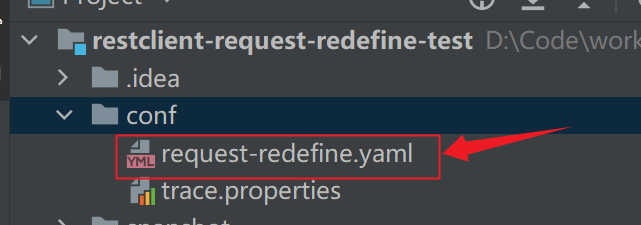
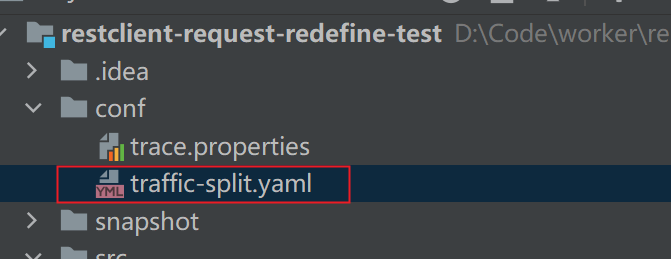
rename configFile from request-redefine.yaml to traffic-split.yaml

diff --git a/restclient-ext/traffic-split-file-config/src/main/java/io/esastack/restclient/ext/rule/FileRuleSourceFactory.java b/restclient-ext/traffic-split-file-config/src/main/java/io/esastack/restclient/ext/rule/FileRuleSourceFactory.java
@@ -44,7 +44,7 @@ public class FileRuleSourceFactory implements RuleSourceFactory {
         private static final String DEFAULT_CONFIG_DIR = "./conf";
         public static final String REQUEST_REDEFINE_CONFIG_DIR = "traffic.split.config.dir";
         private static final String ABSOLUTE_PATH_PREFIX = "/";
-        private static final String DEFAULT_CONFIG_NAME = "request-redefine.yaml";
+        private static final String DEFAULT_CONFIG_NAME = "traffic-split.yaml";
         public static final String REQUEST_REDEFINE_CONFIG_NAME = "traffic.split.config.name";
 
         private volatile long lastModified = 0L;

diff --git a/site/content/en/docs/traffic_split/_index.md b/site/content/en/docs/traffic_split/_index.md
@@ -17,7 +17,7 @@ description: >
 ```
 
 ## Step 2: 配置
-如下图所示，在项目根路径的conf目录下新建名为`request-redefine.yaml`的配置文件:
+如下图所示，在项目根路径的conf目录下新建名为`traffic-split.yaml`的配置文件:
 
 ![conf](../../img/conf.png)
 ### 配置Demo
